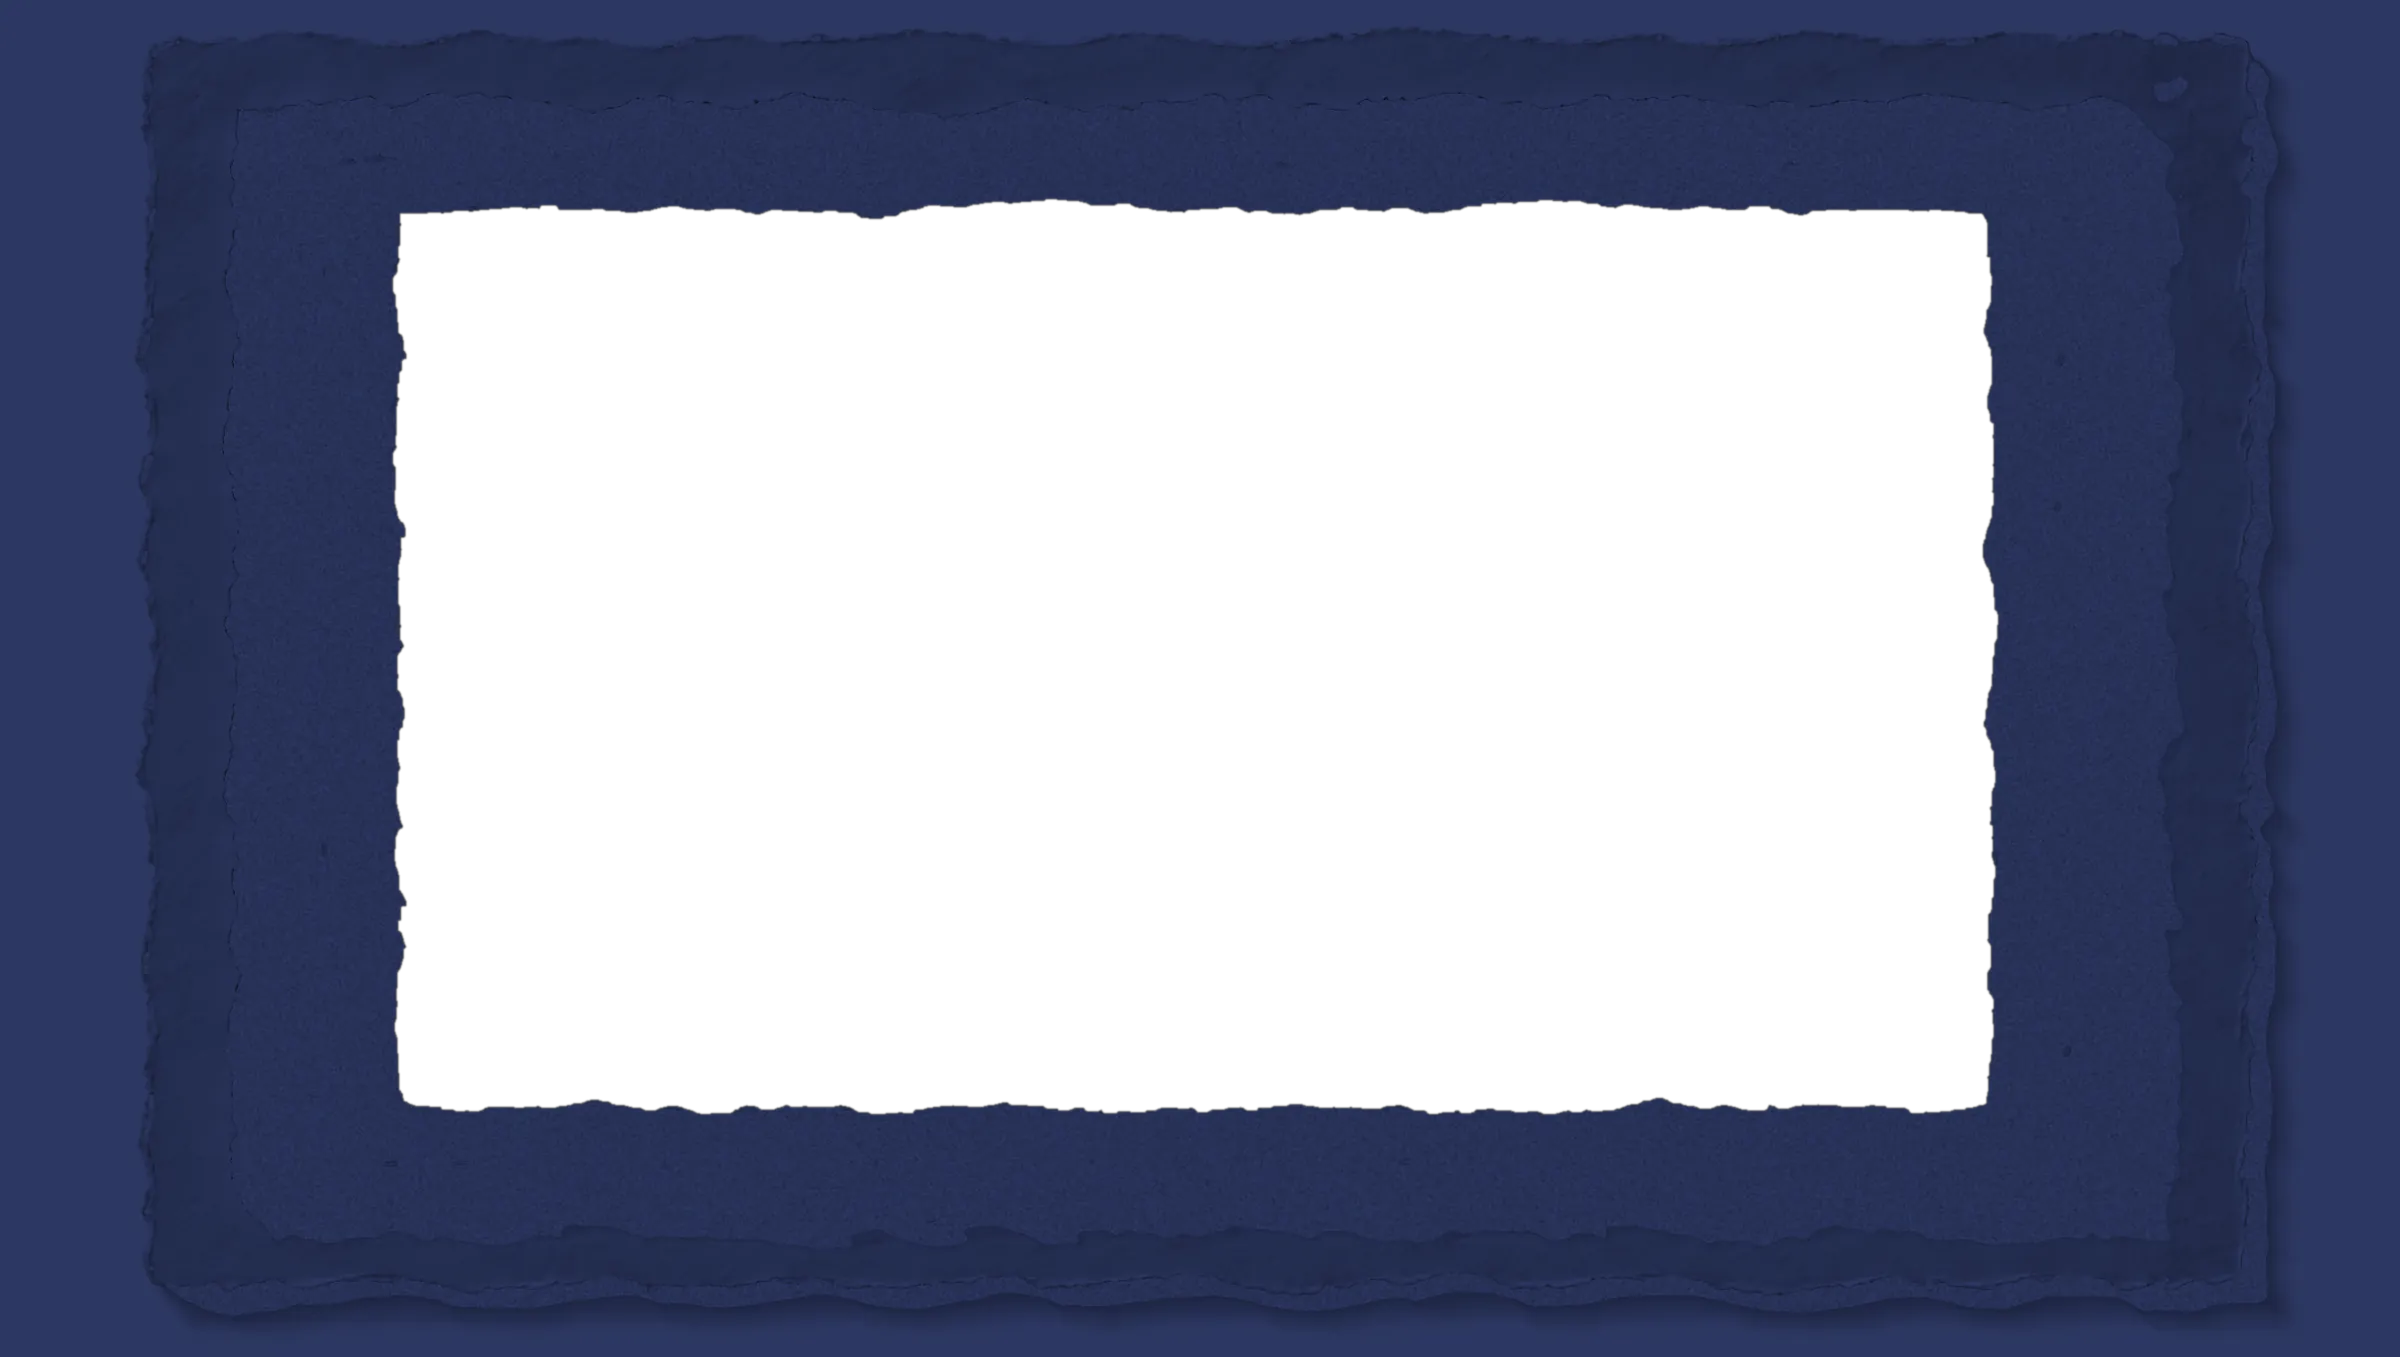
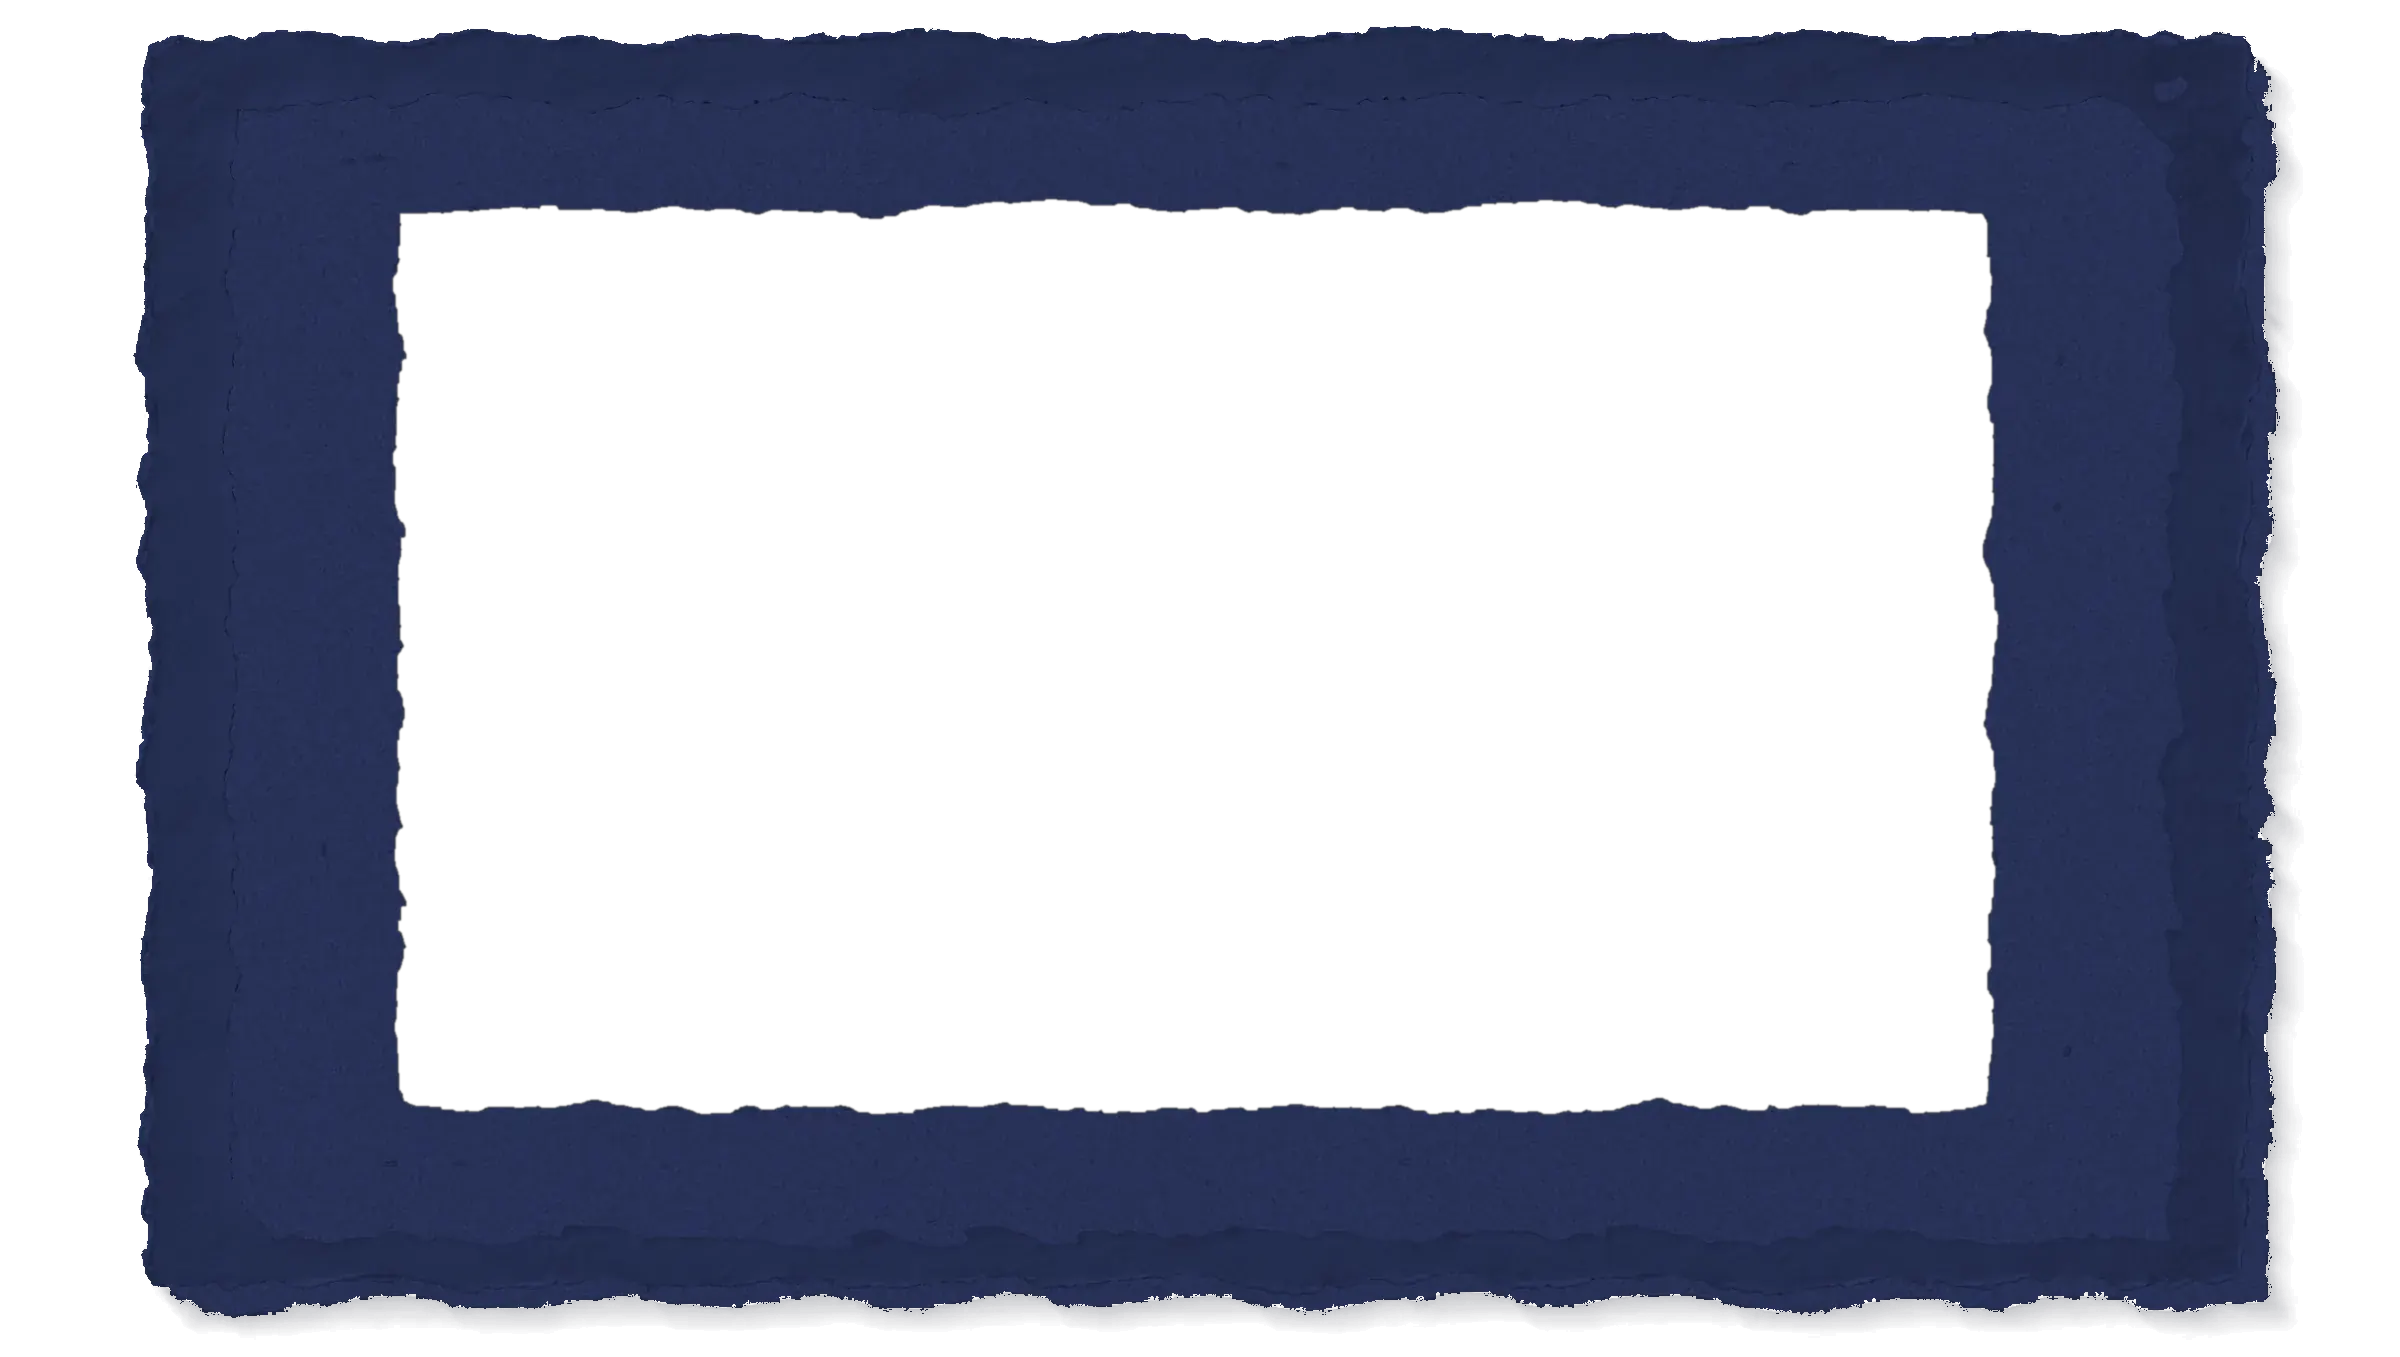
Key the frame's outer sheet to alpha so it no longer shows a white page behind it (TASK-168)

Changed region(s): [[0.0, 0.0, 1.0, 1.0]]

diff --git a/content/media/lab/README.md b/content/media/lab/README.md
@@ -109,3 +109,7 @@ Common ending on all: "Muted luxury editorial palette, matte only ... No text, l
 - 'danger' -> sfx/tick (loop once per second during the DANGER countdown)
 - 'gameover' -> sfx/thud
 - New hooks not in the code today: UI pause/sound/intro buttons -> sfx/click; intro/pause/results card open/close -> sfx/rustle.
+
+## Local post-processing in the repo (TASK-168)
+- `art/frame-1-outer.webp` and `art/frame-1-outer-dark.webp` were re-keyed after delivery: the manifest art has an opaque page-colour surround (white `#FEFEFE` in light, navy in dark) outside the torn edge, which showed as a solid rectangle behind the frame. The surround (a neutral near-white region flood-filled from the border of the light file, one mask for both twins) is now transparent, and its baked shadow is kept as semi-transparent shadow-ink alpha. Script: `.eval/key-outer.mjs` (git-ignored; sharp, WebP q78 / alpha q80). Sizes: 184 KB light, 74 KB dark. Everything else is byte-identical to the manifest.
+- Stacking: the three frame sheets are drawn back to front as outer, secondary, inner (the art is built that way: the cream sheet is the big one at the back, sage on top).
